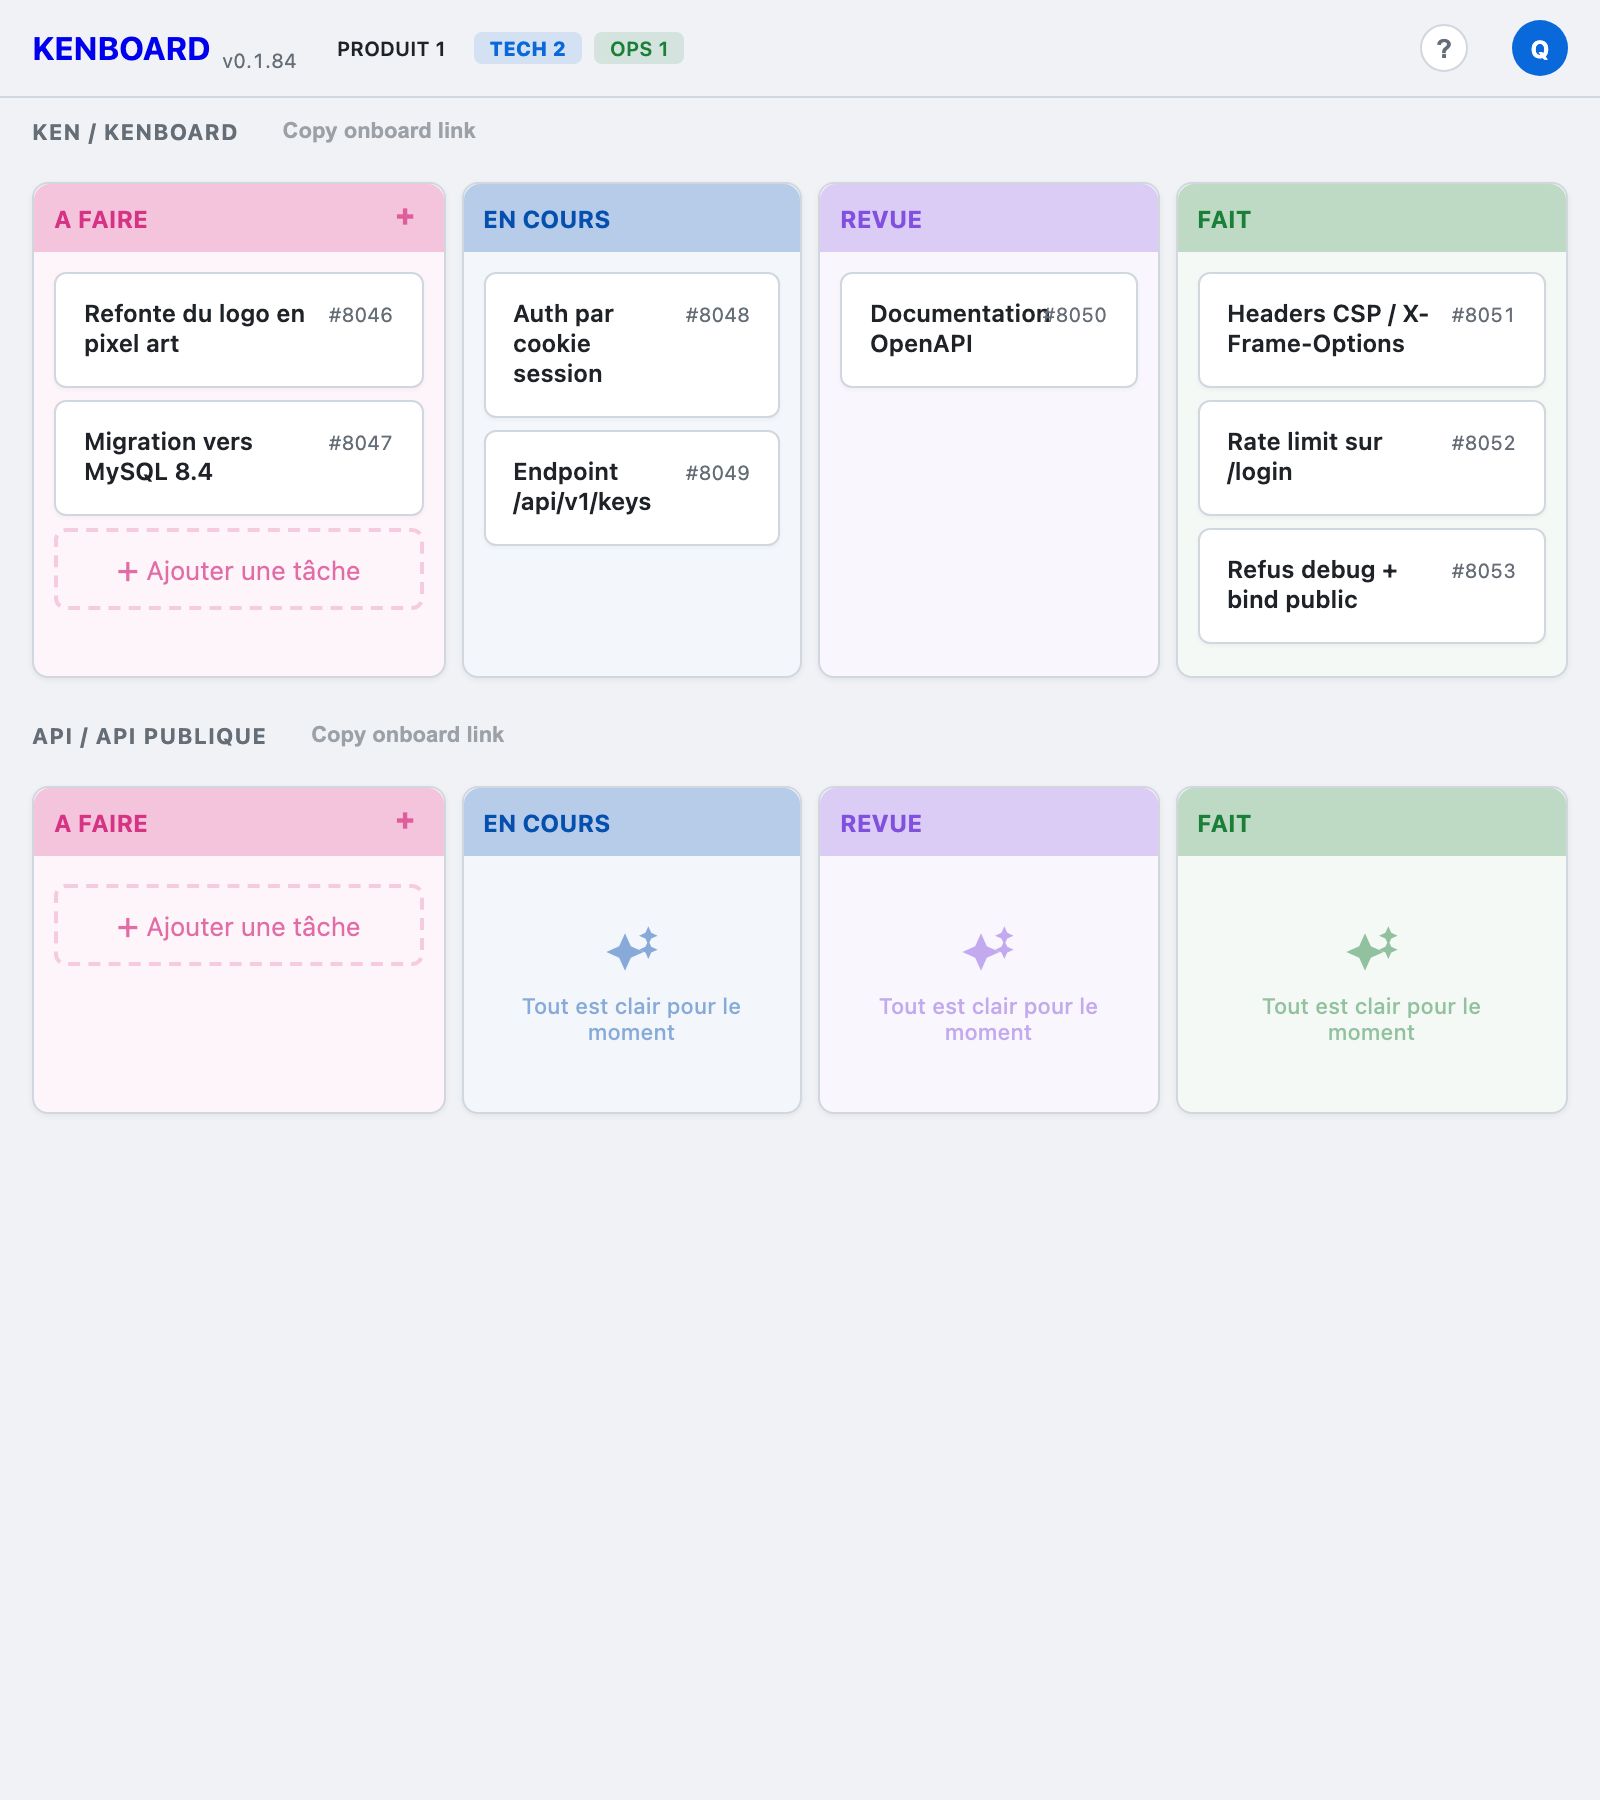
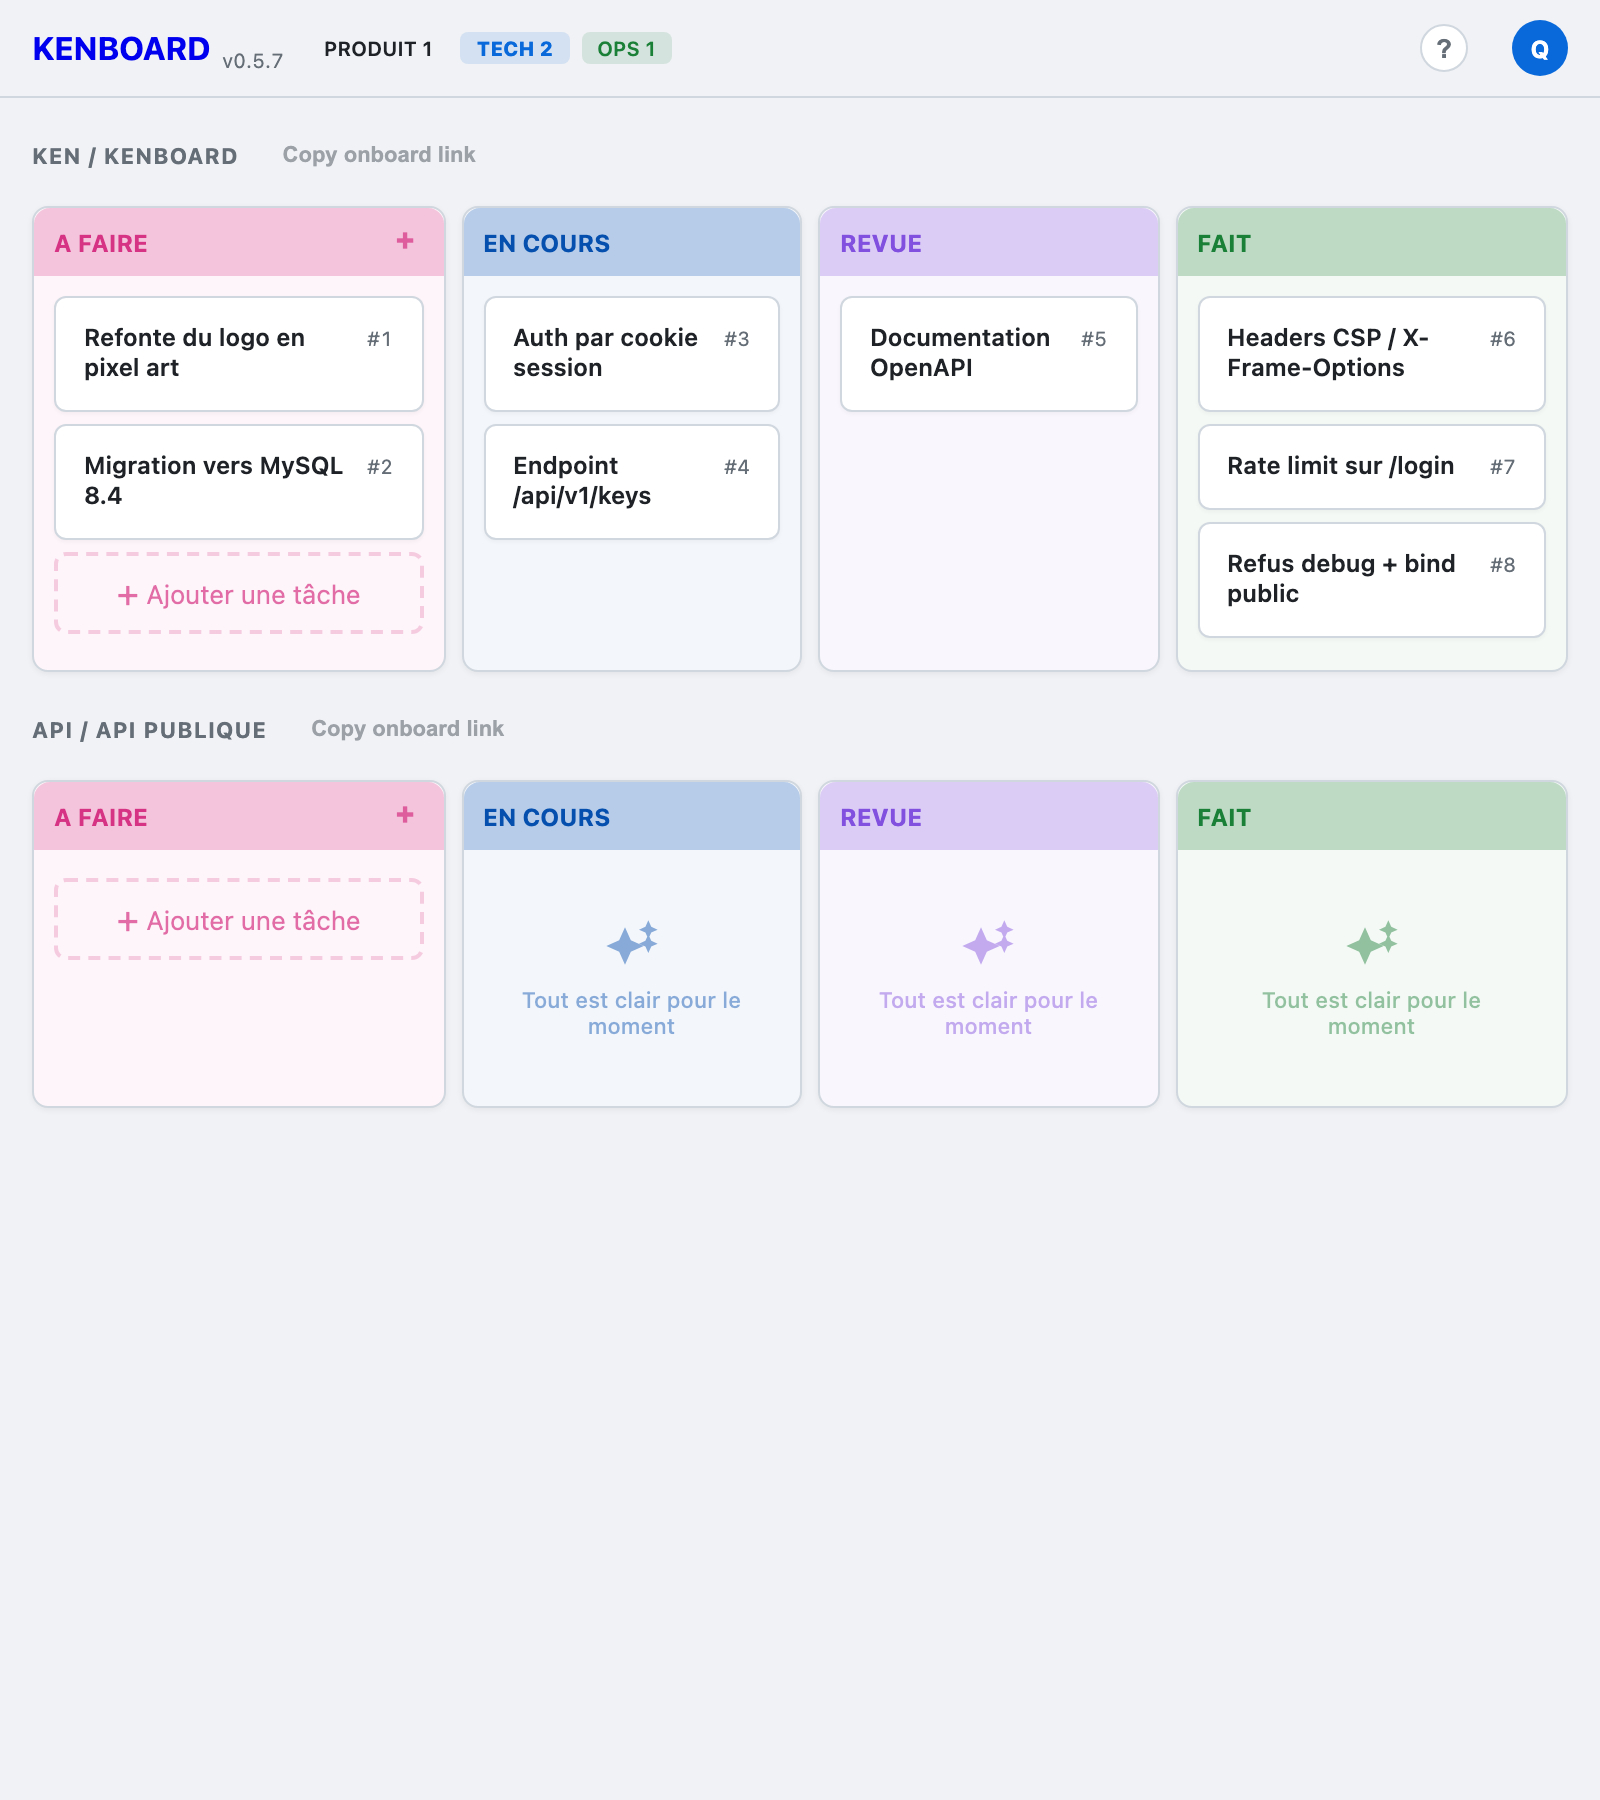
fix(publish): capture du README réparée, reproductible et régénérée par publish.sh (ken #1211)
- scripts/screenshots.py : attachement=None (KeyError), purge alignée sur
  conftest, tâches renumérotées 1..n, serveur sans bannière WARNING
- publish.sh : étape README Screenshots après les E2E (hors --ci), reprise
  après le bump pour porter la version publiée
- doc/images/kanban.png régénérée (v0.5.7)

diff --git a/scripts/screenshots.py b/scripts/screenshots.py
@@ -66,7 +66,14 @@ def _reset_and_seed() -> tuple[str, str]:
     conn = _connect()
     cur = conn.cursor()
     cur.execute("SET FOREIGN_KEY_CHECKS = 0")
+    # Same list as the ``clean_db`` fixture of tests/conftest.py.
     for table in (
+        "activities",
+        "task_wiki_classifications",
+        "email_verification_tokens",
+        "password_reset_tokens",
+        "burndown_snapshots",
+        "user_category_scopes",
         "api_key_projects",
         "api_keys",
         "tasks",
@@ -129,14 +136,31 @@ def _reset_and_seed() -> tuple[str, str]:
             project_id=kenboard_id,
             title=title,
             description="",
+            attachement=None,
             status=status,
             who=who,
             due_date=None,
             position=i,
         )
 
+    _renumber_tasks(conn)
     conn.close()
     return cat_ids["Tech"], kenboard_id
+
+
+def _renumber_tasks(conn: pymysql.connections.Connection) -> None:
+    """Renumber the seeded tasks 1..n so two runs produce the same image.
+
+    The ids are AUTO_INCREMENT and the test user has no DDL right to reset
+    the counter: without this every run shows different ``#id`` labels and
+    rewrites the PNG even though the UI did not change. Ascending order
+    never collides — the n-th smallest id is always >= n.
+    """
+    cur = conn.cursor()
+    cur.execute("SELECT id FROM tasks ORDER BY id")
+    for new_id, row in enumerate(cur.fetchall(), start=1):
+        cur.execute("UPDATE tasks SET id = %s WHERE id = %s", (new_id, row["id"]))
+    cur.close()
 
 
 def _start_server() -> str:
@@ -150,10 +174,13 @@ def _start_server() -> str:
 
     limiter.enabled = False
 
-    threading.Thread(
-        target=lambda: app.run(port=SERVER_PORT, use_reloader=False),
-        daemon=True,
-    ).start()
+    # make_server rather than app.run: same werkzeug server, without the
+    # "WARNING: This is a development server" banner that publish.sh would
+    # surface as a warning line (its output must stay clean, ken #1130).
+    from werkzeug.serving import make_server
+
+    server = make_server("127.0.0.1", SERVER_PORT, app, threaded=True)
+    threading.Thread(target=server.serve_forever, daemon=True).start()
 
     base = f"http://localhost:{SERVER_PORT}"
     for _ in range(50):

diff --git a/README.md b/README.md
@@ -36,6 +36,7 @@
 </p>
 
 > Regenerate the screenshot after a UI change: `pdm run screenshots`
+> (`publish.sh` also does it on every local run)
 
 ## For BOTs
 
